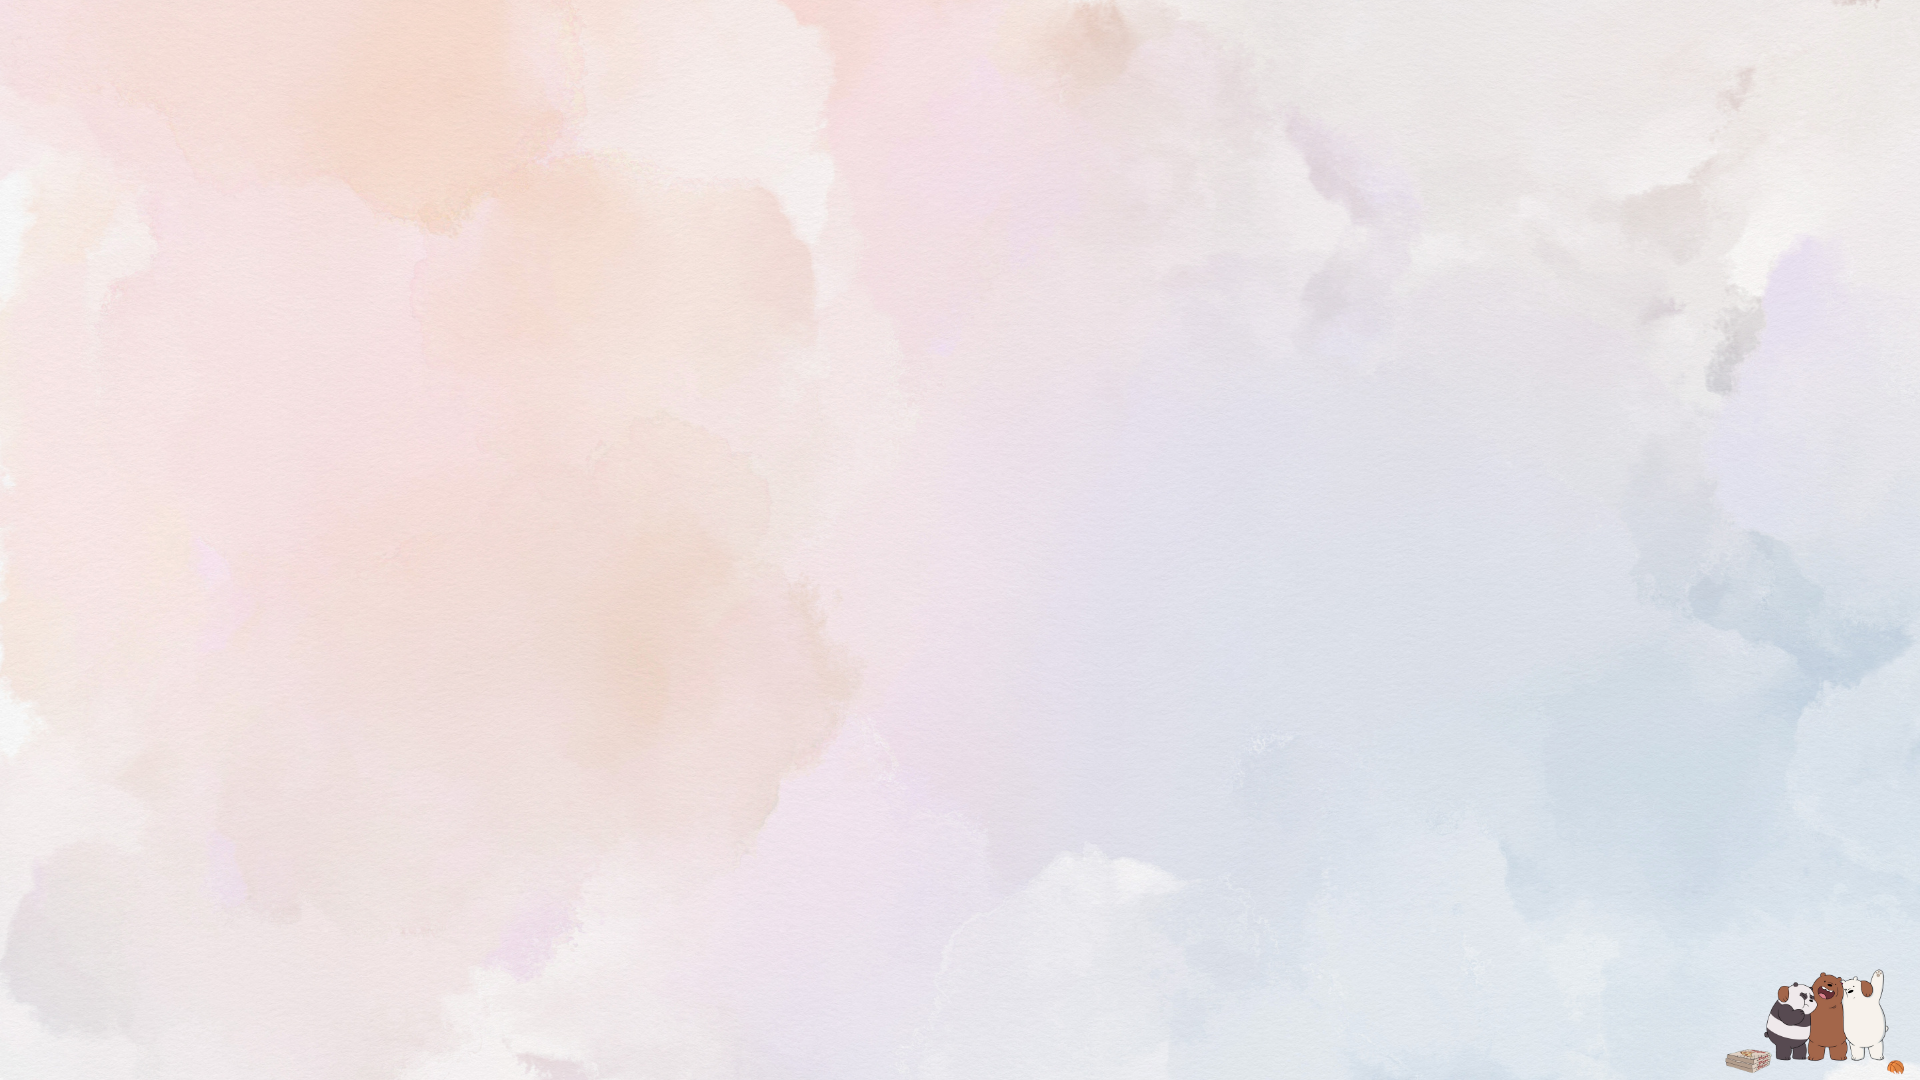
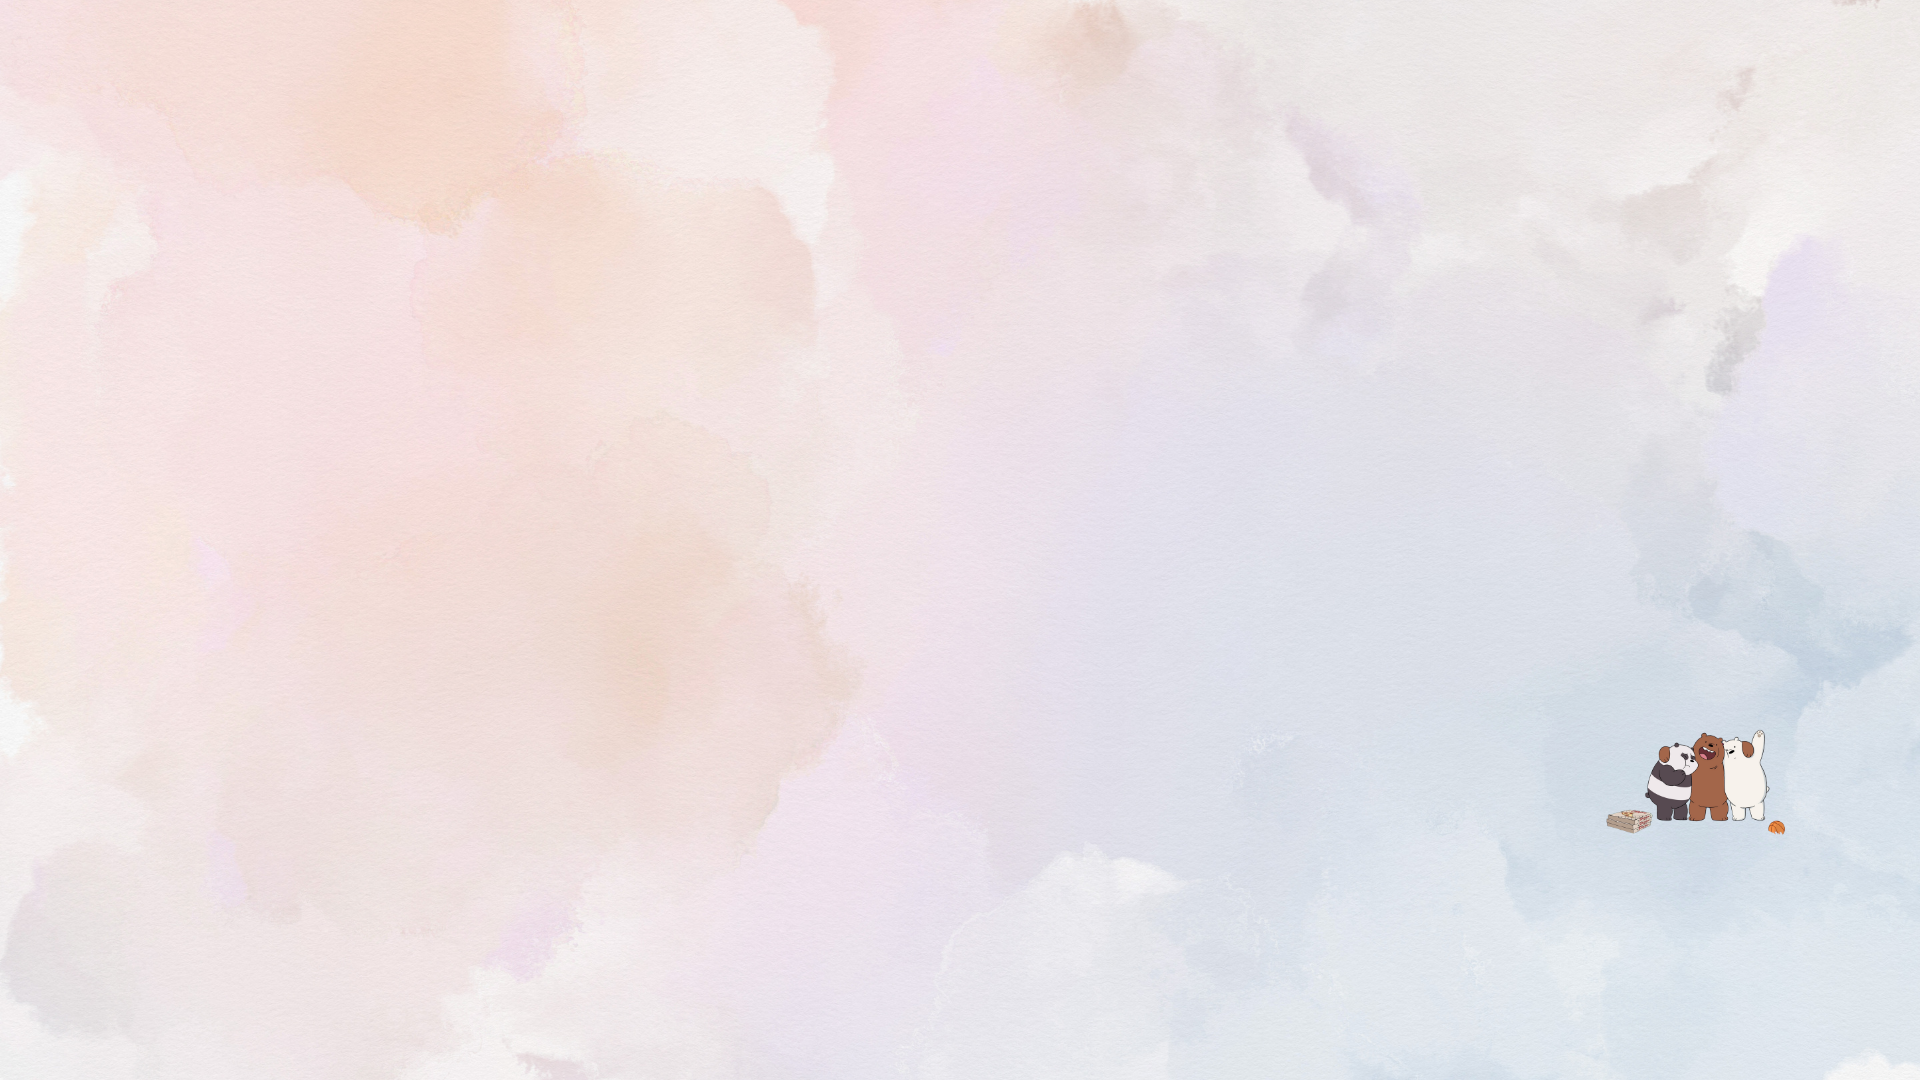
edit homepage

Changed region(s): [[0.875, 0.8861, 1.0, 1.0], [0.8438, 0.6722, 0.9375, 0.7639]]

diff --git a/Workspace/App/client/src/Components/Home/Home.module.css b/Workspace/App/client/src/Components/Home/Home.module.css
@@ -41,14 +41,13 @@ h1 {
   justify-content: center;
   align-items: center; /* Căn giữa dọc */
   height: 50vh;
-  width: calc(100% - 280px); /* Trừ đi kích thước sidebar */
+  width: calc(100% - 700px); /* Trừ đi kích thước sidebar */
   border-radius: 10px;
   text-align: center;
   background-color: #f9f9f9;
   position: relative;
   padding: 20px;
-  margin-left: 265px; 
-  margin-right: 30px;
+  margin-left: 465px;/*265px*/ 
   margin-top:15px;
   
   }
